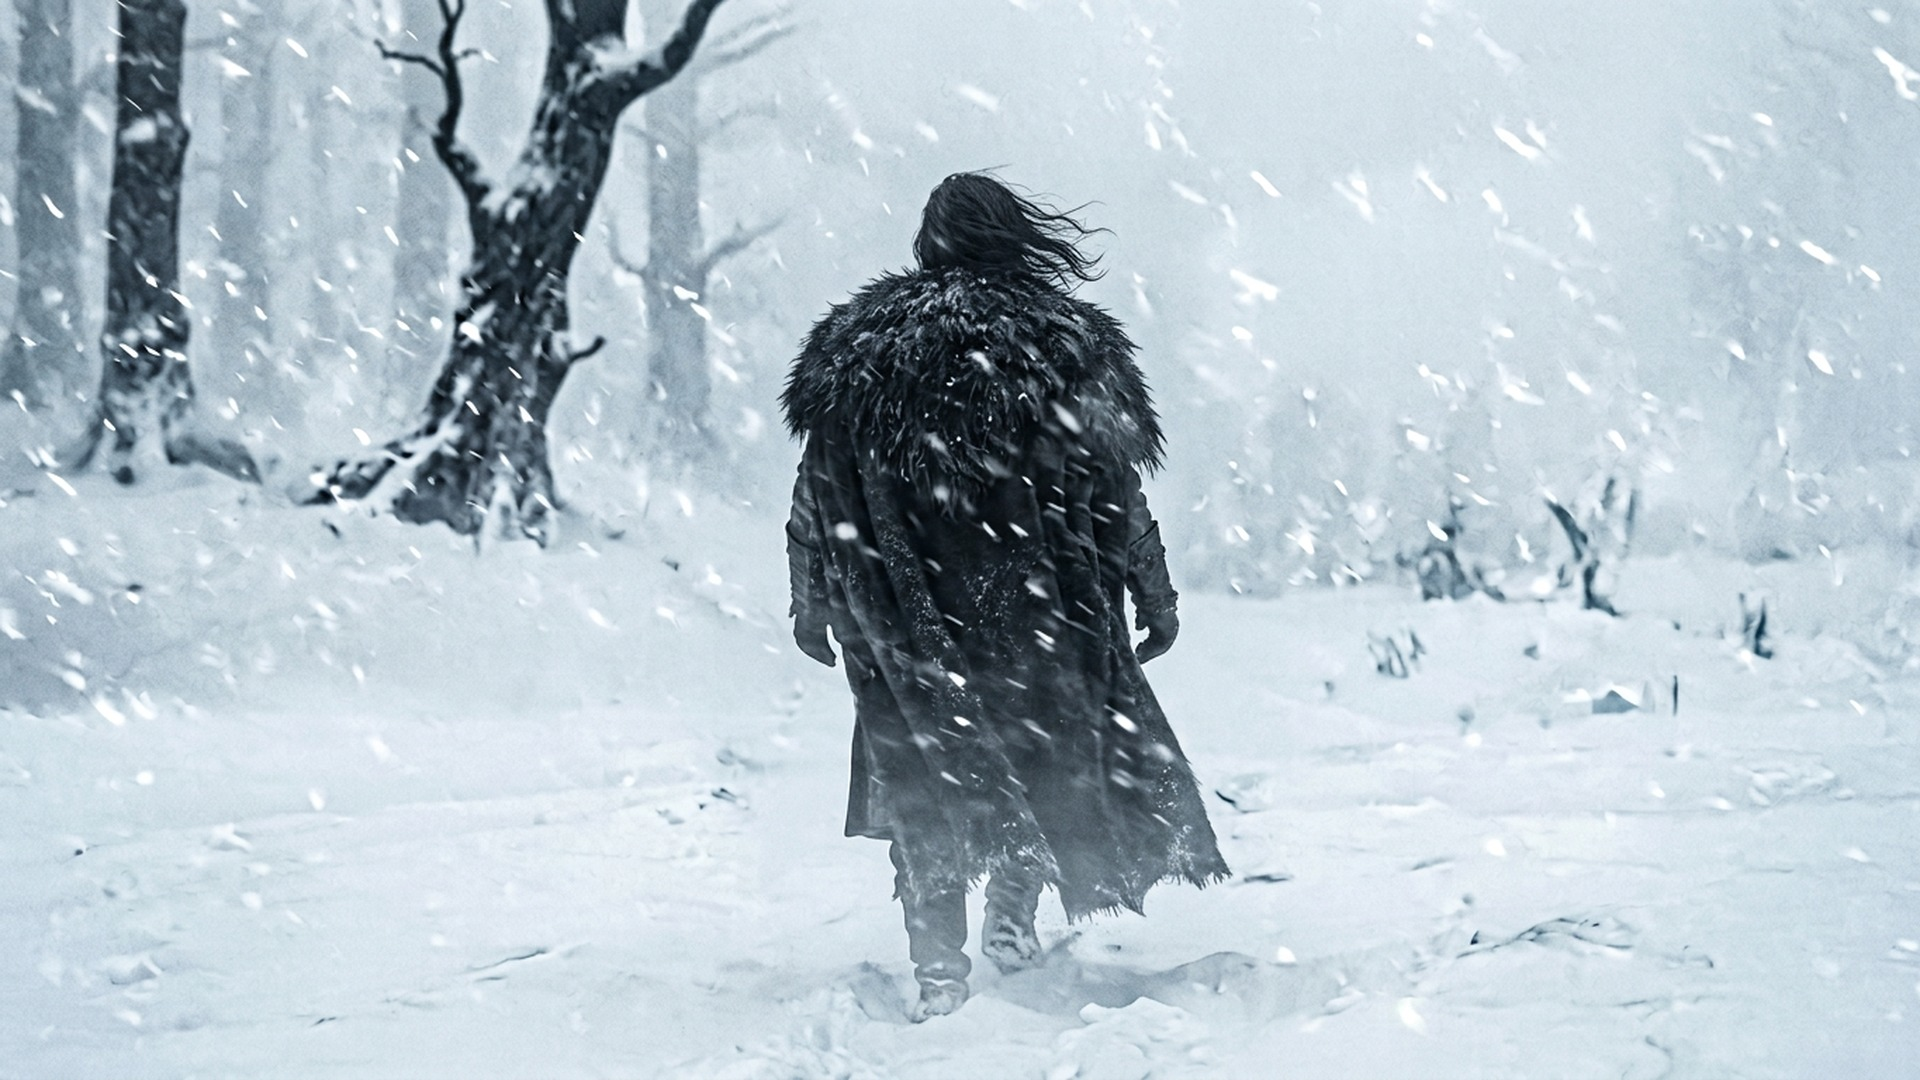
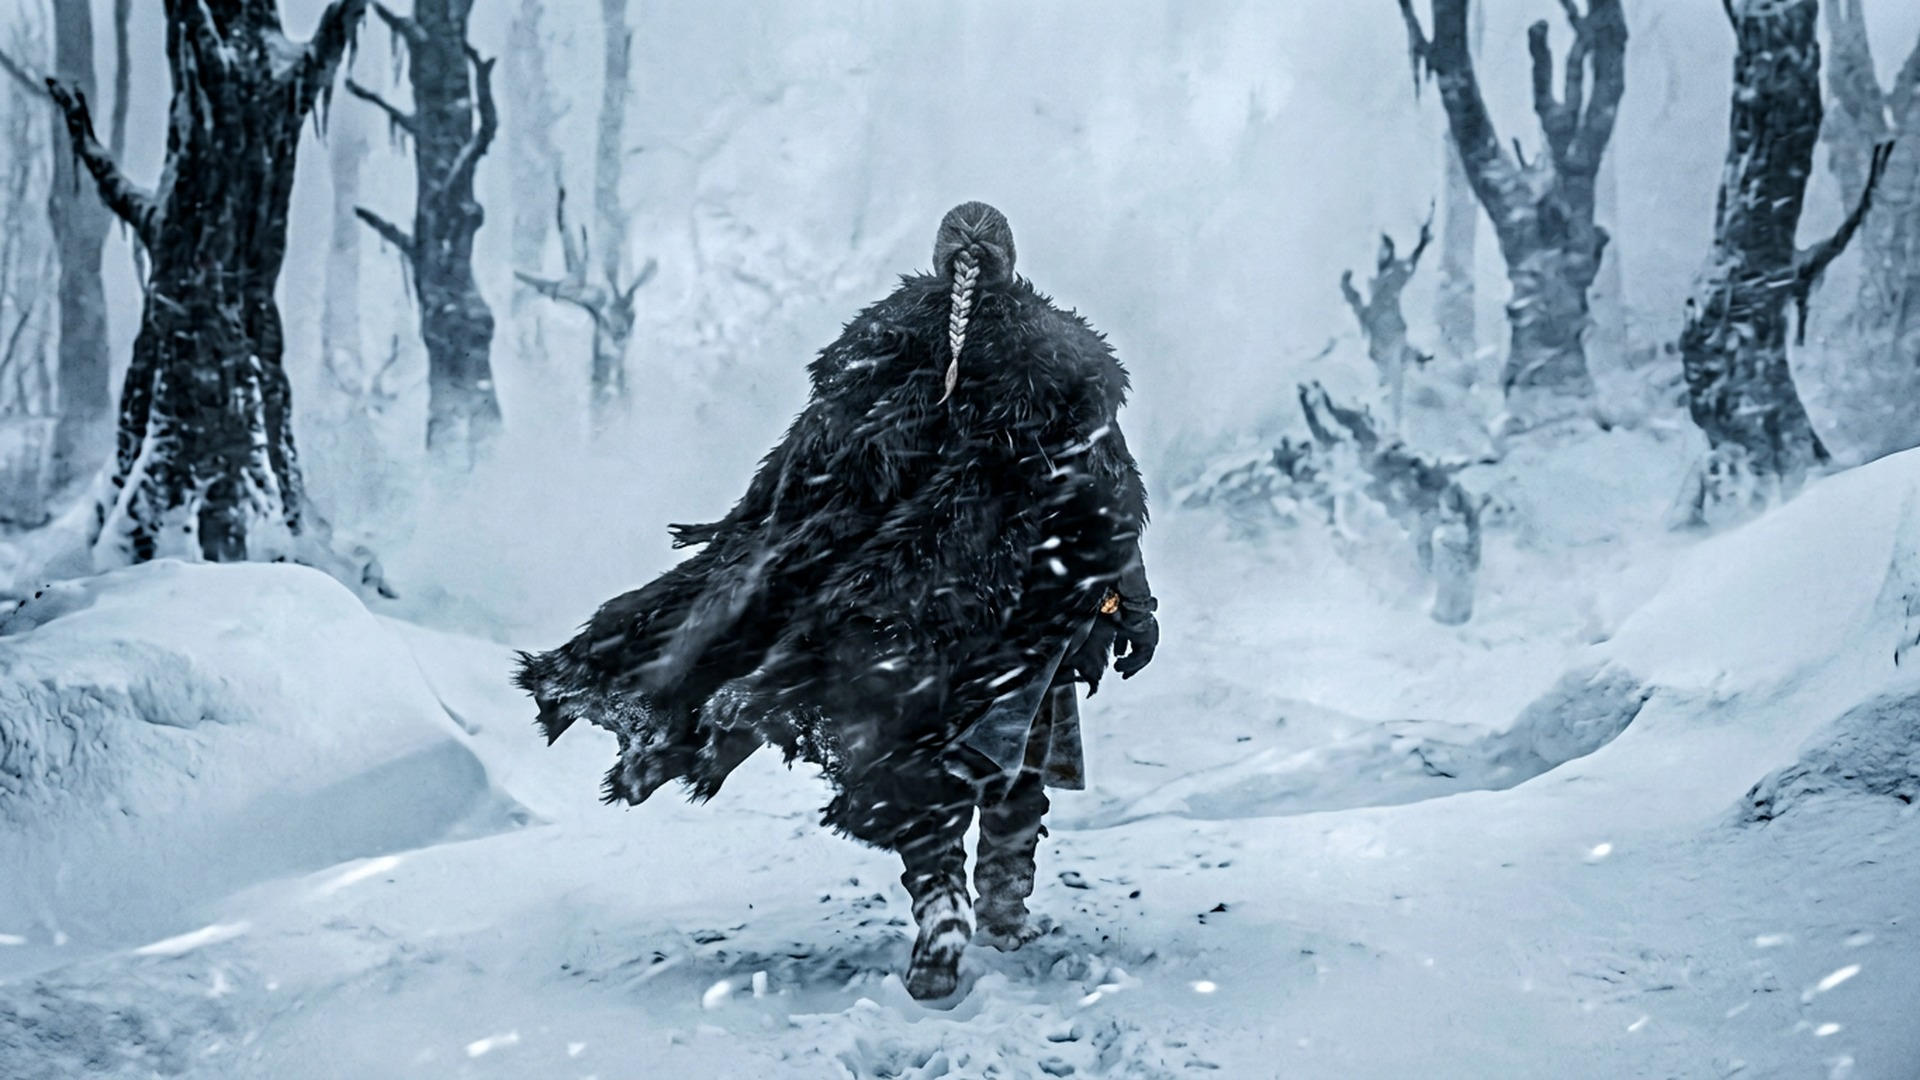
GOT001: S018 redo + S044-S052 (8 PASS), S045 likeness FIX, S002 queen anchor to REVIEW; tracker v2.33

diff --git a/projects/dune_archives/00_master/MASTER_INDEX_AND_TRACKER.md b/projects/dune_archives/00_master/MASTER_INDEX_AND_TRACKER.md
@@ -86,7 +86,7 @@ Folders 10, 11, 12, 19, 21, 22, 23 and 24 are empty on purpose. They fill once p
 |---|---|---|---|---|---|---|---|---|---|---|---|---|
 | DUN003 | Dune Messiah Explained Before Part Three | STANDARD | APPROVED (topic + 15 min + 150 imgs, 2026-11-23) | ☑ | ☑ 15 min | ☑ 150 imgs / 15 batches | v1.0 APPROVED | v1 (178 shots) | B001 ✅ · B002 ✅ · B003 ✅ · B004 ✅ · B005 ✅ · B006 ✅ · B007 4/10 (+Duncan pending, 1 fix) · B008 3/10 | — | — | — |
 | DUN001 | The Butlerian Jihad: The War Against the Thinking Machines | EPIC | **MASTER v1 ON DRIVE** 22_edit `1PpbtA6EKYWP-Inc31NuFSd0R0Y4immpj` (492.8 MB, 11:54, 1080p24, ≈−14.7 LUFS / −0.9 dBTP) — awaiting director review | ☑ | ☑ 11:54 | ☑ 150 imgs / 15 batches | v1.0 APPROVED · rev 1.1 (VI softened, approved) | data/dun001.py (168 cuts, 42 gfx incl. chapter cards) | B001–B015 ✅ **150/150 QC PASS** (anchors: Erasmus, Serena, Vorian, Xavier, Iblis, Agamemnon, Abulurd) | VO ✅ 13/13 · aligned 100% · maps A/B/C ✅ · mix ✅ −14 LUFS/−1 dBTP | — | — |
-| GOT001 | The Night King: Who Was He Really? | EPIC | IN PRODUCTION (script approved; VO 12/12; aligned 100%; timeline 10:35; stills 42/150) | ☑ | ☑ VO 598.7 s, 12/12 sections → programme ≈10:40 (runtime option A) | ☐ 150 imgs (42 PASS: B001 10, B002 9 + S018 FIX, B003 10, B004 10, B005 3) | v1.0 APPROVED | — | — | — | — | — |
+| GOT001 | The Night King: Who Was He Really? | EPIC | IN PRODUCTION (script approved; VO 12/12; aligned 100%; timeline 10:35; stills 50/150) | ☑ | ☑ VO 598.7 s, 12/12 sections → programme ≈10:40 (runtime option A) | ☐ 150 imgs (50 PASS; S002 REVIEW, S045 FIX) | v1.0 APPROVED | — | — | — | — | — |
 
 ## E. Data counts (from `00_master/build_summary.json`)
 
@@ -709,5 +709,6 @@ Index/QC v21 Doc: `1Xd5uubuVr8HSOOF7w4-m3S2es9A0PhxvI7hFvTYLZpw`. S012/S016 turn
 | v2.30 | 2026-11-24 | GOT001: S020–S029 generated: 8 PASS (broken tower, weirwood courtyard, Bran party arriving, Rat Cook's rat, sentinels in the ice, empty seat, Long Night, the Wall rising), 2 FIX (S021 hall has a stray figure; S026 Night's King reads as the HBO Jon Snow actor). Workflows `got001_align/mix/master.yml` added; music fetch list (10 Kevin MacLeod tracks, all verified in DUN001); whisper name hints for Westeros; **CI align triggered**. Stills 27/150 |
 | v2.31 | 2026-11-25 | **Likeness rule (director): no actor or celebrity faces; book versions of characters.** Audit of all GOT001 face stills: redid S001 (Night's King anchor redesigned: about 40, grey-streaked braid, scarred brow), S004/S023 (Bran now Tully auburn; Hodor towers), S005 (Sam: pink moon face, fair, clean-shaven), S026; S021 redone empty. Spot-check of DUN003 Paul/Chani/Alia/Irulan: no film-cast resemblance. Westeros policy v1.1 §4b, looks v1.1 (Bran, Sam, Hodor, Meera, Jojen, Ygritte, Night's King rows), visual bible QC (face check mandatory, all worlds). New: S030 Brandon the Builder with giants, S031 children of the forest, S032 first oath, S033 brothers on the Wall. CI align 100%; first timeline build 10:35. Stills 33/150 |
 | v2.32 | 2026-11-25 | GOT001 S034–S043 all PASS, face-checked (Night's King made Lord Commander, eyes macro, lone sentry, at the edge, over-shoulder view of the corpse queen below, queen full figure, the ride through the haunted forest, hands touching with frost, frost face, queen walking into mist). S018 flagged FIX for continuity (pre-audit loose hair vs the new braid). Stills 42/150 |
+| v2.33 | 2026-11-25 | GOT001: S018 redone (braid continuity). S044–S052: 8 PASS (the Others as Martin describes them, through the Wall, proclaimed king and queen, enthralled brothers, the Nightfort's cold light, thirteen winters, sunrise panorama, the two hosts meet). S045 queen profile FIX (possible actress likeness), so the S002 queen anchor goes to REVIEW for a redesign. Stills 50/150 |
 
 > Turn 22 note: the old manifests v11, continuity v1.4 and original tracker Doc have their Drive descriptions set to SUPERSEDED, pointing at the new IDs above. The Drive tracker v2.12 Doc is a snapshot taken before its own ID was added here.
